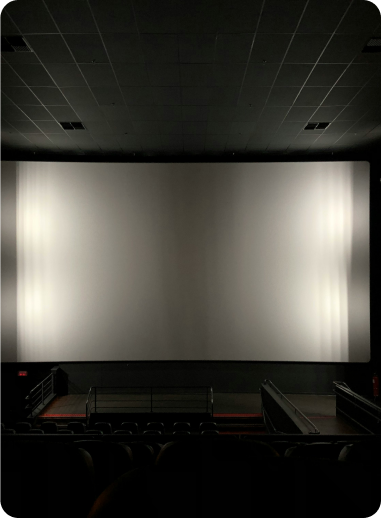
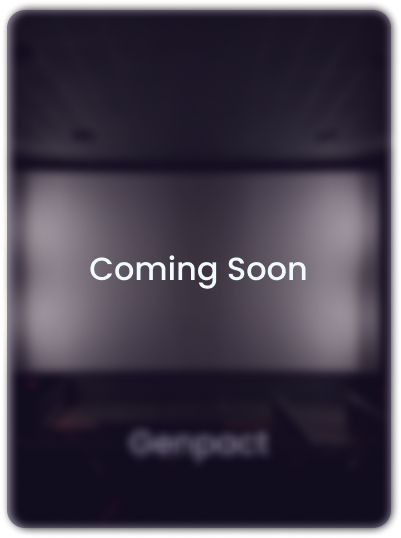
update

diff --git a/frontend/src/components/Carousel.js b/frontend/src/components/Carousel.js
@@ -56,24 +56,24 @@ function CaseStudiesCarousel() {
   useEffect(() => {
     setItems([
       { id: 0, image: sss, title: 'JSW Eye on Pellet', description: 'Delve into the revolutionary world of pelletization plants through real time system integration.' },
-      { id: 1, image: ips, title: 'Genpact', description: 'Optimizing Meetings with LED Panel Video Wall Installation' },
-      { id: 2, image: ipn, title: 'BIAL', description: 'Delve into Security Implementation at Kempagowda International Airport' },
+      { id: 1, image: ips, title: '', description: '' },
+      { id: 2, image: ipn, title: '', description: '' },
       { id: 3, image: str, title: 'ITC Hotels', description: 'A Close Examination of how SVNT implements Security Protocols at ITC.' },
       { id: 4, image: sms, title: 'BEL(Rafael)', description: 'Explore the realm of security and management solutions, vital for safeguarding businesses against threats.' },
       { id: 5, image: is, title: 'Om Books (Statocast)', description: 'Optimize efficiency with our integration solutions, merging systems for seamless communication and collaboration.' },
       { id: 6, image: avs, title: 'CFCL', description: 'Elevate communication and engagement with our audio-visual solutions.' },
       { id: 7, image: es, title: 'Aragen', description: 'Lorem ipsum dolor sit amet, consectetur adipiscing elit. Integer posuere erat a ante.' },
       { id: 0, image: sss, title: 'JSW Eye on Pellet', description: 'Delve into the revolutionary world of pelletization plants through real time system integration.' },
-      { id: 1, image: ips, title: 'Genpact', description: 'Optimizing Meetings with LED Panel Video Wall Installation' },
-      { id: 2, image: ipn, title: 'BIAL', description: 'Delve into Security Implementation at Kempagowda International Airport' },
+      { id: 1, image: ips, title: '', description: '' },
+      { id: 2, image: ipn, title: '', description: '' },
       { id: 3, image: str, title: 'ITC Hotels', description: 'A Close Examination of how SVNT implements Security Protocols at ITC.' },
       { id: 4, image: sms, title: 'BEL(Rafael)', description: 'Explore the realm of security and management solutions, vital for safeguarding businesses against threats.' },
       { id: 5, image: is, title: 'Om Books (Statocast)', description: 'Optimize efficiency with our integration solutions, merging systems for seamless communication and collaboration.' },
       { id: 6, image: avs, title: 'CFCL', description: 'Elevate communication and engagement with our audio-visual solutions.' },
       { id: 7, image: es, title: 'Aragen', description: 'Lorem ipsum dolor sit amet, consectetur adipiscing elit. Integer posuere erat a ante.' },
       { id: 0, image: sss, title: 'JSW Eye on Pellet', description: 'Delve into the revolutionary world of pelletization plants through real time system integration.' },
-      { id: 1, image: ips, title: 'Genpact', description: 'Optimizing Meetings with LED Panel Video Wall Installation' },
-      { id: 2, image: ipn, title: 'BIAL', description: 'Delve into Security Implementation at Kempagowda International Airport' },
+      { id: 1, image: ips, title: '', description: '' },
+      { id: 2, image: ipn, title: '', description: '' },
       { id: 3, image: str, title: 'ITC Hotels', description: 'A Close Examination of how SVNT implements Security Protocols at ITC.' },
       { id: 4, image: sms, title: 'BEL(Rafael)', description: 'Explore the realm of security and management solutions, vital for safeguarding businesses against threats.' },
       { id: 5, image: is, title: 'Om Books (Statocast)', description: 'Optimize efficiency with our integration solutions, merging systems for seamless communication and collaboration.' },

diff --git a/frontend/src/App.js b/frontend/src/App.js
@@ -19,7 +19,7 @@ function App() {
   useEffect(() => {
     const timeout = setTimeout(() => {
       setIsLoading(false);
-    }, 1000);
+    }, 2000);
     return () => clearTimeout(timeout);
   }, []);
 

diff --git a/frontend/src/App.css b/frontend/src/App.css
@@ -679,8 +679,8 @@ main {
   line-height: 50px;
   font-size: 20px;
   width: 50%;
+  letter-spacing: 5%;
   margin-right: 20rem;
-  padding-left: 5rem;
 }
 
 .trustedtext h1 {

diff --git a/frontend/src/css/carousel.css b/frontend/src/css/carousel.css
@@ -70,7 +70,7 @@ html, body {
 
 .trustedtext p{
   line-height: 50px;
-  letter-spacing: 5px;
+  letter-spacing: 3px;
   padding-top: 8rem;
 }
 

diff --git a/frontend/src/css/caseStudies.css b/frontend/src/css/caseStudies.css
@@ -37,6 +37,7 @@
 }
 
 .cs-hero-bg{
+    margin-top: 3.2rem;
     width: fit-content;
     object-fit: scale-down;
 }
